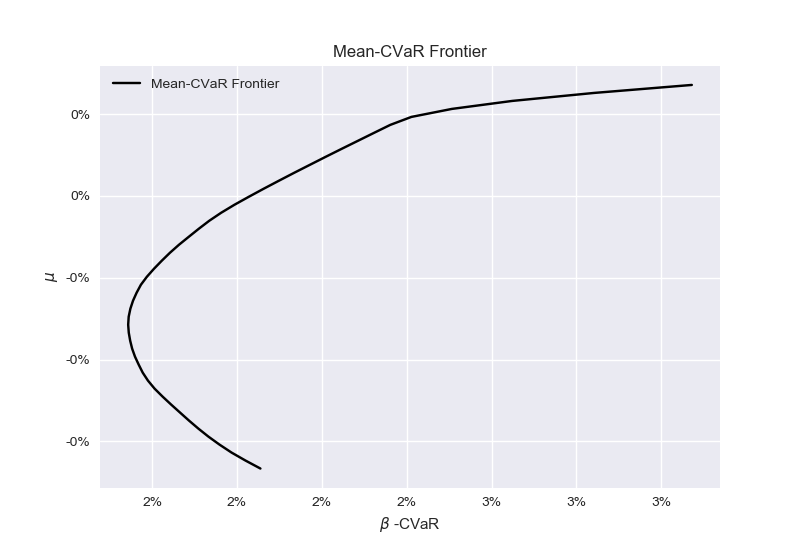
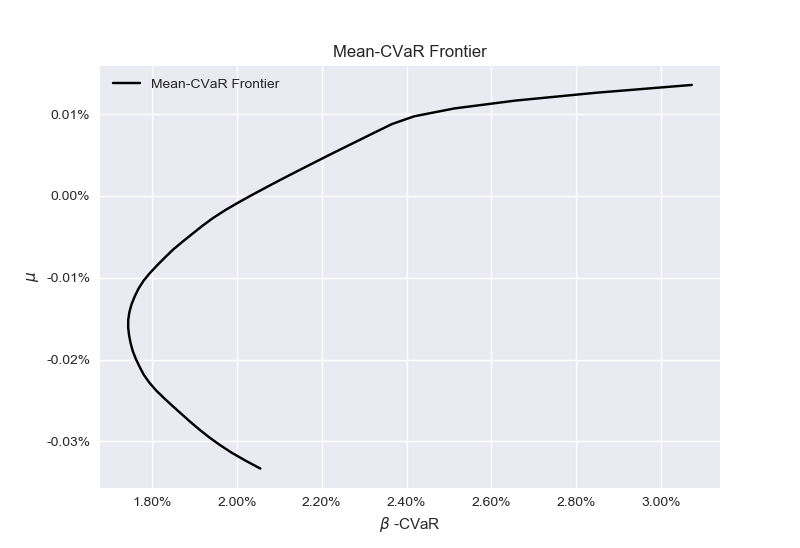
view

diff --git a/S_CopulaOpinionPooling.py b/S_CopulaOpinionPooling.py
@@ -59,8 +59,8 @@ P_mat = np.array([[0,  -1,  0,    0, 1, 0],
               [0 ,-0.5, 1, -0.5, 0, 0]]); # views
 mu_v = np.array([0.0006,0.0007]);         # normal view mean 
 sigma_v = np.array([0.05,0.075]);         # normal view sigma
-range_v = np.array([[ 0, 0.001],
-                    [0, 0.0005]]);        # uniform view range 
+range_v = np.array([[ 0, 0.01],
+                    [0, 0.02]]);        # uniform view range 
 k_ = P_mat.shape[0]                       # number of views
 Conf_full = ones((k_, 1)) - 1e-6          # full confidence levels
 Conf = ones((k_, 1))*0.25                 # half confidence levels
@@ -111,7 +111,7 @@ MPost = post.Uniform_View(range_v)
 print('Uniform View')
 Utility.disp_stat([MPrior, MPost], ['Prior','Post'])
 post.Plot_cdf(range_v, 'Cdf of the steepening view')
-
+#%%
 # Construct Portfolio
 
 # Mean_CVaR Portfolio Optimization
